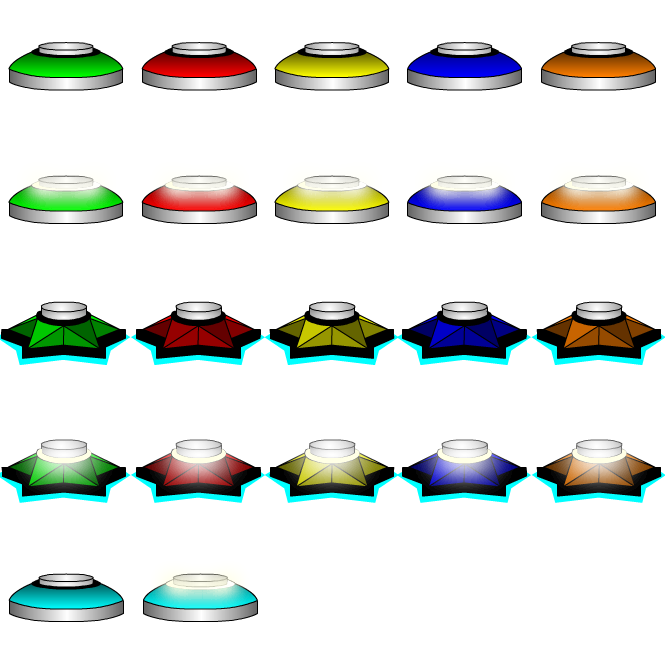
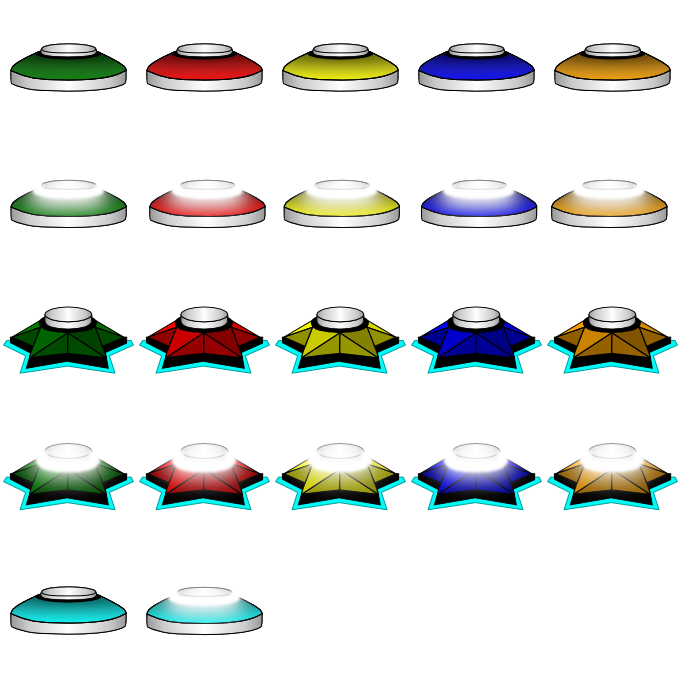
few battle graphics made by azzco, and support for static battle notes with new notesbattle.png file

diff --git a/MFH-Mod/trunk/src/Guitar.py b/MFH-Mod/trunk/src/Guitar.py
@@ -439,8 +439,9 @@ class Guitar:
             engine.loadImgDrawing(self, "noteButtons", os.path.join("themes",themename,"spinnotesbattle.png"))
             self.starSpinFrames = 8
           except IOError:
-            try:  
-              engine.loadImgDrawing(self, "noteButtons", os.path.join("themes",themename,"spinnotes.png"))
+            try:
+              self.starspin = False
+              engine.loadImgDrawing(self, "noteButtons", os.path.join("themes",themename,"notesbattle.png"))
             except IOError:
               self.starspin = False
               engine.loadImgDrawing(self, "noteButtons", os.path.join("themes",themename,"notes.png"))
@@ -457,7 +458,13 @@ class Guitar:
           engine.loadImgDrawing(self, "noteButtons", os.path.join("themes",themename,"notes.png"))
           self.rbnote = 0
       else:
-        engine.loadImgDrawing(self, "noteButtons", os.path.join("themes",themename,"notes.png"))
+        if self.gameMode2p == 6:
+          try:
+            engine.loadImgDrawing(self, "noteButtons", os.path.join("themes",themename,"notesbattle.png"))
+          except IOError:
+            engine.loadImgDrawing(self, "noteButtons", os.path.join("themes",themename,"notes.png"))
+        else:
+          engine.loadImgDrawing(self, "noteButtons", os.path.join("themes",themename,"notes.png"))
         #mfh - adding fallback for beta option
     else:
       #MFH - can't use IOError for fallback logic for a Mesh() call... 
